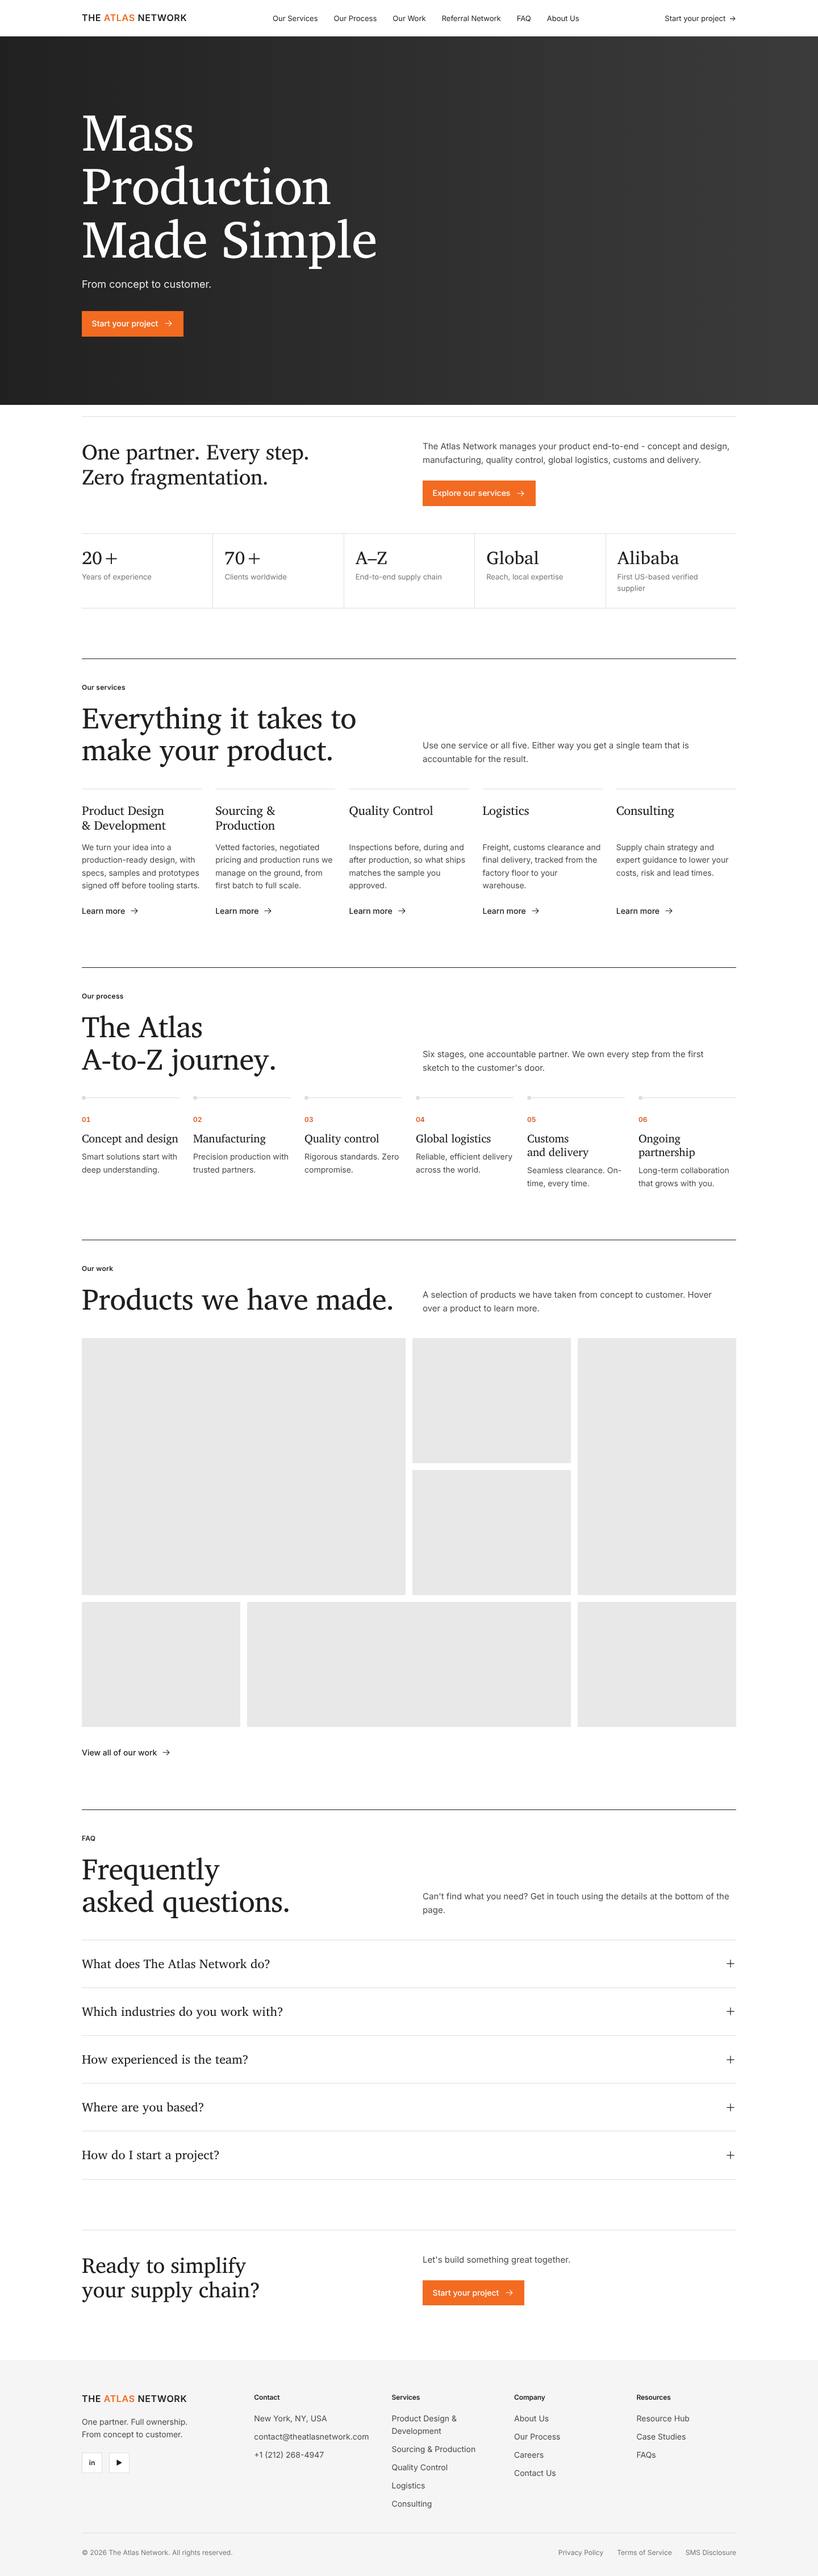
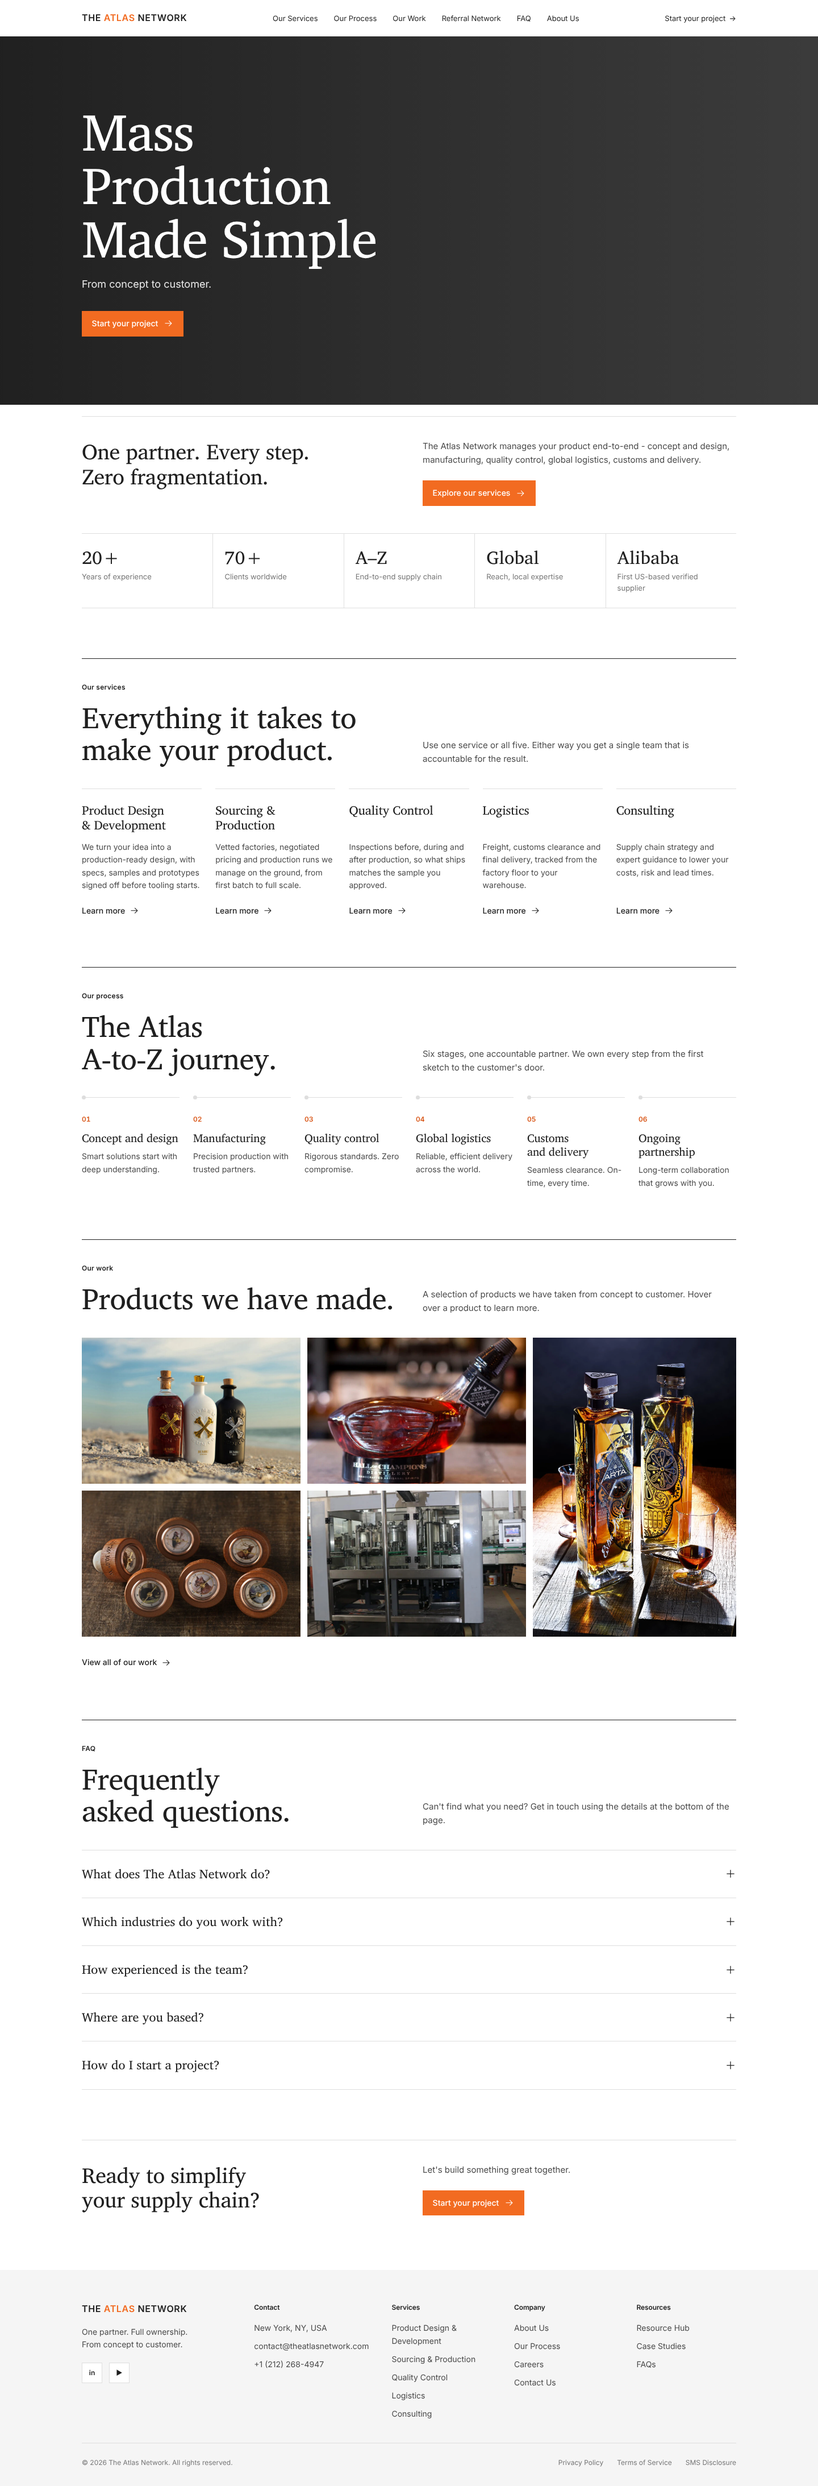
Add product photos to the Our Work collage
Five product photos added unmodified under assets/images/work/, with
the collage reshaped to their own proportions so none are cropped.

Claude-Session: https://claude.ai/code/session_01YL3eWvwcXdoF4z8yaZ8Eba

diff --git a/index.html b/index.html
@@ -142,12 +142,10 @@
   @media (max-width: 640px) { .steps { grid-template-columns: 1fr; gap: 1.75rem; } }
 
   /* Work: image collage. Each tile drops down a caption on hover. */
-  .collage { display: grid; grid-template-columns: repeat(4, minmax(0, 1fr)); grid-auto-rows: 220px; gap: 12px;
-    grid-template-areas: "a a b c" "a a d c" "e f f g"; }
-  .tile { position: relative; overflow: hidden; background: var(--placeholder); }
-  .tile:nth-child(1) { grid-area: a; } .tile:nth-child(2) { grid-area: b; } .tile:nth-child(3) { grid-area: c; }
-  .tile:nth-child(4) { grid-area: d; } .tile:nth-child(5) { grid-area: e; } .tile:nth-child(6) { grid-area: f; }
-  .tile:nth-child(7) { grid-area: g; }
+  .collage { display: grid; grid-template-columns: 1fr 1fr .93fr; gap: 12px; grid-template-areas: "a b c" "d e c"; }
+  .tile { position: relative; overflow: hidden; background: var(--placeholder); aspect-ratio: 800 / 535; max-width: 100%; }
+  .tile:nth-child(1) { grid-area: a; } .tile:nth-child(2) { grid-area: b; } .tile:nth-child(3) { grid-area: c; aspect-ratio: auto; }
+  .tile:nth-child(4) { grid-area: d; } .tile:nth-child(5) { grid-area: e; }
   .tile > img { width: 100%; height: 100%; object-fit: cover; transition: transform .6s var(--ease); }
   .tile:hover > img { transform: scale(1.04); }
   .tile .drop { position: absolute; top: 0; left: 0; right: 0; background: var(--white); padding: 1rem 1.1rem 1.1rem; transform: translateY(-101%); transition: transform .4s var(--ease), box-shadow .4s var(--ease); }
@@ -157,8 +155,11 @@
   .drop p { font-size: .8125rem; margin-bottom: .6rem; }
   .drop .link-arrow { color: var(--orange-dark); font-size: .8125rem; }
   @media (hover: none) { .tile .drop { transform: none; top: auto; bottom: 0; box-shadow: none; } }
-  @media (max-width: 900px) {
-    .collage { grid-template-columns: repeat(2, minmax(0, 1fr)); grid-auto-rows: 200px; grid-template-areas: "a a" "a a" "b c" "d c" "e g" "f f"; }
+  @media (max-width: 900px) { .collage { grid-template-columns: 1fr 1fr; grid-template-areas: "a c" "b c" "d e"; } }
+  @media (max-width: 560px) {
+    .collage { grid-template-columns: 1fr; grid-template-areas: none; }
+    .tile, .tile:nth-child(n) { grid-area: auto; }
+    .tile:nth-child(3) { aspect-ratio: 1394 / 2000; }
   }
 
   /* FAQ */
@@ -304,8 +305,8 @@
     </div>
   </section>
 
-  <!-- Our work. Add each product photo as <img src="..." alt="..."/> as the first child of its tile,
-       then fill in the category, name, description and link in the drop-down box. -->
+  <!-- Our work. Product photos live in assets/images/work/. Each tile's drop-down box holds its
+       category, name, description and link. -->
   <section id="work" class="section">
     <div class="container">
       <div class="section-head">
@@ -313,13 +314,11 @@
         <p>A selection of products we have taken from concept to customer. Hover over a product to learn more.</p>
       </div>
       <div class="collage">
-        <div class="tile"><div class="drop"><span class="cat">Category</span><h3>Product name</h3><p>One-line description of the product.</p><a class="link-arrow" href="/case-studies">Learn more <svg class="arrow" viewBox="0 0 24 24" fill="none" stroke="currentColor" stroke-width="1.5" stroke-linecap="round" stroke-linejoin="round" aria-hidden="true"><path d="M4 12h15m-6-6 6 6-6 6"/></svg></a></div></div>
-        <div class="tile"><div class="drop"><span class="cat">Category</span><h3>Product name</h3><p>One-line description of the product.</p><a class="link-arrow" href="/case-studies">Learn more <svg class="arrow" viewBox="0 0 24 24" fill="none" stroke="currentColor" stroke-width="1.5" stroke-linecap="round" stroke-linejoin="round" aria-hidden="true"><path d="M4 12h15m-6-6 6 6-6 6"/></svg></a></div></div>
-        <div class="tile"><div class="drop"><span class="cat">Category</span><h3>Product name</h3><p>One-line description of the product.</p><a class="link-arrow" href="/case-studies">Learn more <svg class="arrow" viewBox="0 0 24 24" fill="none" stroke="currentColor" stroke-width="1.5" stroke-linecap="round" stroke-linejoin="round" aria-hidden="true"><path d="M4 12h15m-6-6 6 6-6 6"/></svg></a></div></div>
-        <div class="tile"><div class="drop"><span class="cat">Category</span><h3>Product name</h3><p>One-line description of the product.</p><a class="link-arrow" href="/case-studies">Learn more <svg class="arrow" viewBox="0 0 24 24" fill="none" stroke="currentColor" stroke-width="1.5" stroke-linecap="round" stroke-linejoin="round" aria-hidden="true"><path d="M4 12h15m-6-6 6 6-6 6"/></svg></a></div></div>
-        <div class="tile"><div class="drop"><span class="cat">Category</span><h3>Product name</h3><p>One-line description of the product.</p><a class="link-arrow" href="/case-studies">Learn more <svg class="arrow" viewBox="0 0 24 24" fill="none" stroke="currentColor" stroke-width="1.5" stroke-linecap="round" stroke-linejoin="round" aria-hidden="true"><path d="M4 12h15m-6-6 6 6-6 6"/></svg></a></div></div>
-        <div class="tile"><div class="drop"><span class="cat">Category</span><h3>Product name</h3><p>One-line description of the product.</p><a class="link-arrow" href="/case-studies">Learn more <svg class="arrow" viewBox="0 0 24 24" fill="none" stroke="currentColor" stroke-width="1.5" stroke-linecap="round" stroke-linejoin="round" aria-hidden="true"><path d="M4 12h15m-6-6 6 6-6 6"/></svg></a></div></div>
-        <div class="tile"><div class="drop"><span class="cat">Category</span><h3>Product name</h3><p>One-line description of the product.</p><a class="link-arrow" href="/case-studies">Learn more <svg class="arrow" viewBox="0 0 24 24" fill="none" stroke="currentColor" stroke-width="1.5" stroke-linecap="round" stroke-linejoin="round" aria-hidden="true"><path d="M4 12h15m-6-6 6 6-6 6"/></svg></a></div></div>
+        <div class="tile"><img src="assets/images/work/bumbu-rum.png" width="800" height="535" alt="Bumbu rum bottles - The Original, Crème and XO - on a beach" loading="lazy"/><div class="drop"><span class="cat">Spirits &amp; Packaging</span><h3>Bumbu Rum Co.</h3><p>Bottles for The Original, Crème and XO.</p><a class="link-arrow" href="/case-studies">Learn more <svg class="arrow" viewBox="0 0 24 24" fill="none" stroke="currentColor" stroke-width="1.5" stroke-linecap="round" stroke-linejoin="round" aria-hidden="true"><path d="M4 12h15m-6-6 6 6-6 6"/></svg></a></div></div>
+        <div class="tile"><img src="assets/images/work/hall-of-champions.webp" width="800" height="535" alt="Golf driver-shaped Hall of Champions decanter on a bar" loading="lazy"/><div class="drop"><span class="cat">Spirits &amp; Packaging</span><h3>Hall of Champions decanter</h3><p>A golf driver-shaped glass decanter on a branded base.</p><a class="link-arrow" href="/case-studies">Learn more <svg class="arrow" viewBox="0 0 24 24" fill="none" stroke="currentColor" stroke-width="1.5" stroke-linecap="round" stroke-linejoin="round" aria-hidden="true"><path d="M4 12h15m-6-6 6 6-6 6"/></svg></a></div></div>
+        <div class="tile"><img src="assets/images/work/tequila-arta.webp" width="1394" height="2000" alt="Two Tequila Arta Extra Añejo bottles with tasting glasses" loading="lazy"/><div class="drop"><span class="cat">Spirits &amp; Packaging</span><h3>Tequila Arta Extra Añejo</h3><p>Triangular decorated glass bottles with sculpted stoppers.</p><a class="link-arrow" href="/case-studies">Learn more <svg class="arrow" viewBox="0 0 24 24" fill="none" stroke="currentColor" stroke-width="1.5" stroke-linecap="round" stroke-linejoin="round" aria-hidden="true"><path d="M4 12h15m-6-6 6 6-6 6"/></svg></a></div></div>
+        <div class="tile"><img src="assets/images/work/compass-stoppers.webp" width="800" height="535" alt="Wooden bottle stoppers with working wildlife compasses" loading="lazy"/><div class="drop"><span class="cat">Accessories</span><h3>Compass bottle stoppers</h3><p>Wooden stoppers set with working wildlife compasses.</p><a class="link-arrow" href="/case-studies">Learn more <svg class="arrow" viewBox="0 0 24 24" fill="none" stroke="currentColor" stroke-width="1.5" stroke-linecap="round" stroke-linejoin="round" aria-hidden="true"><path d="M4 12h15m-6-6 6 6-6 6"/></svg></a></div></div>
+        <div class="tile"><img src="assets/images/work/filling-line.webp" width="800" height="535" alt="Automated bottle filling machine on a factory floor" loading="lazy"/><div class="drop"><span class="cat">Production</span><h3>Bottle filling line</h3><p>Automated filling and capping equipment for production runs.</p><a class="link-arrow" href="/case-studies">Learn more <svg class="arrow" viewBox="0 0 24 24" fill="none" stroke="currentColor" stroke-width="1.5" stroke-linecap="round" stroke-linejoin="round" aria-hidden="true"><path d="M4 12h15m-6-6 6 6-6 6"/></svg></a></div></div>
       </div>
       <div class="section-foot"><a class="link-arrow" href="/case-studies">View all of our work <svg class="arrow" viewBox="0 0 24 24" fill="none" stroke="currentColor" stroke-width="1.5" stroke-linecap="round" stroke-linejoin="round" aria-hidden="true"><path d="M4 12h15m-6-6 6 6-6 6"/></svg></a></div>
     </div>
